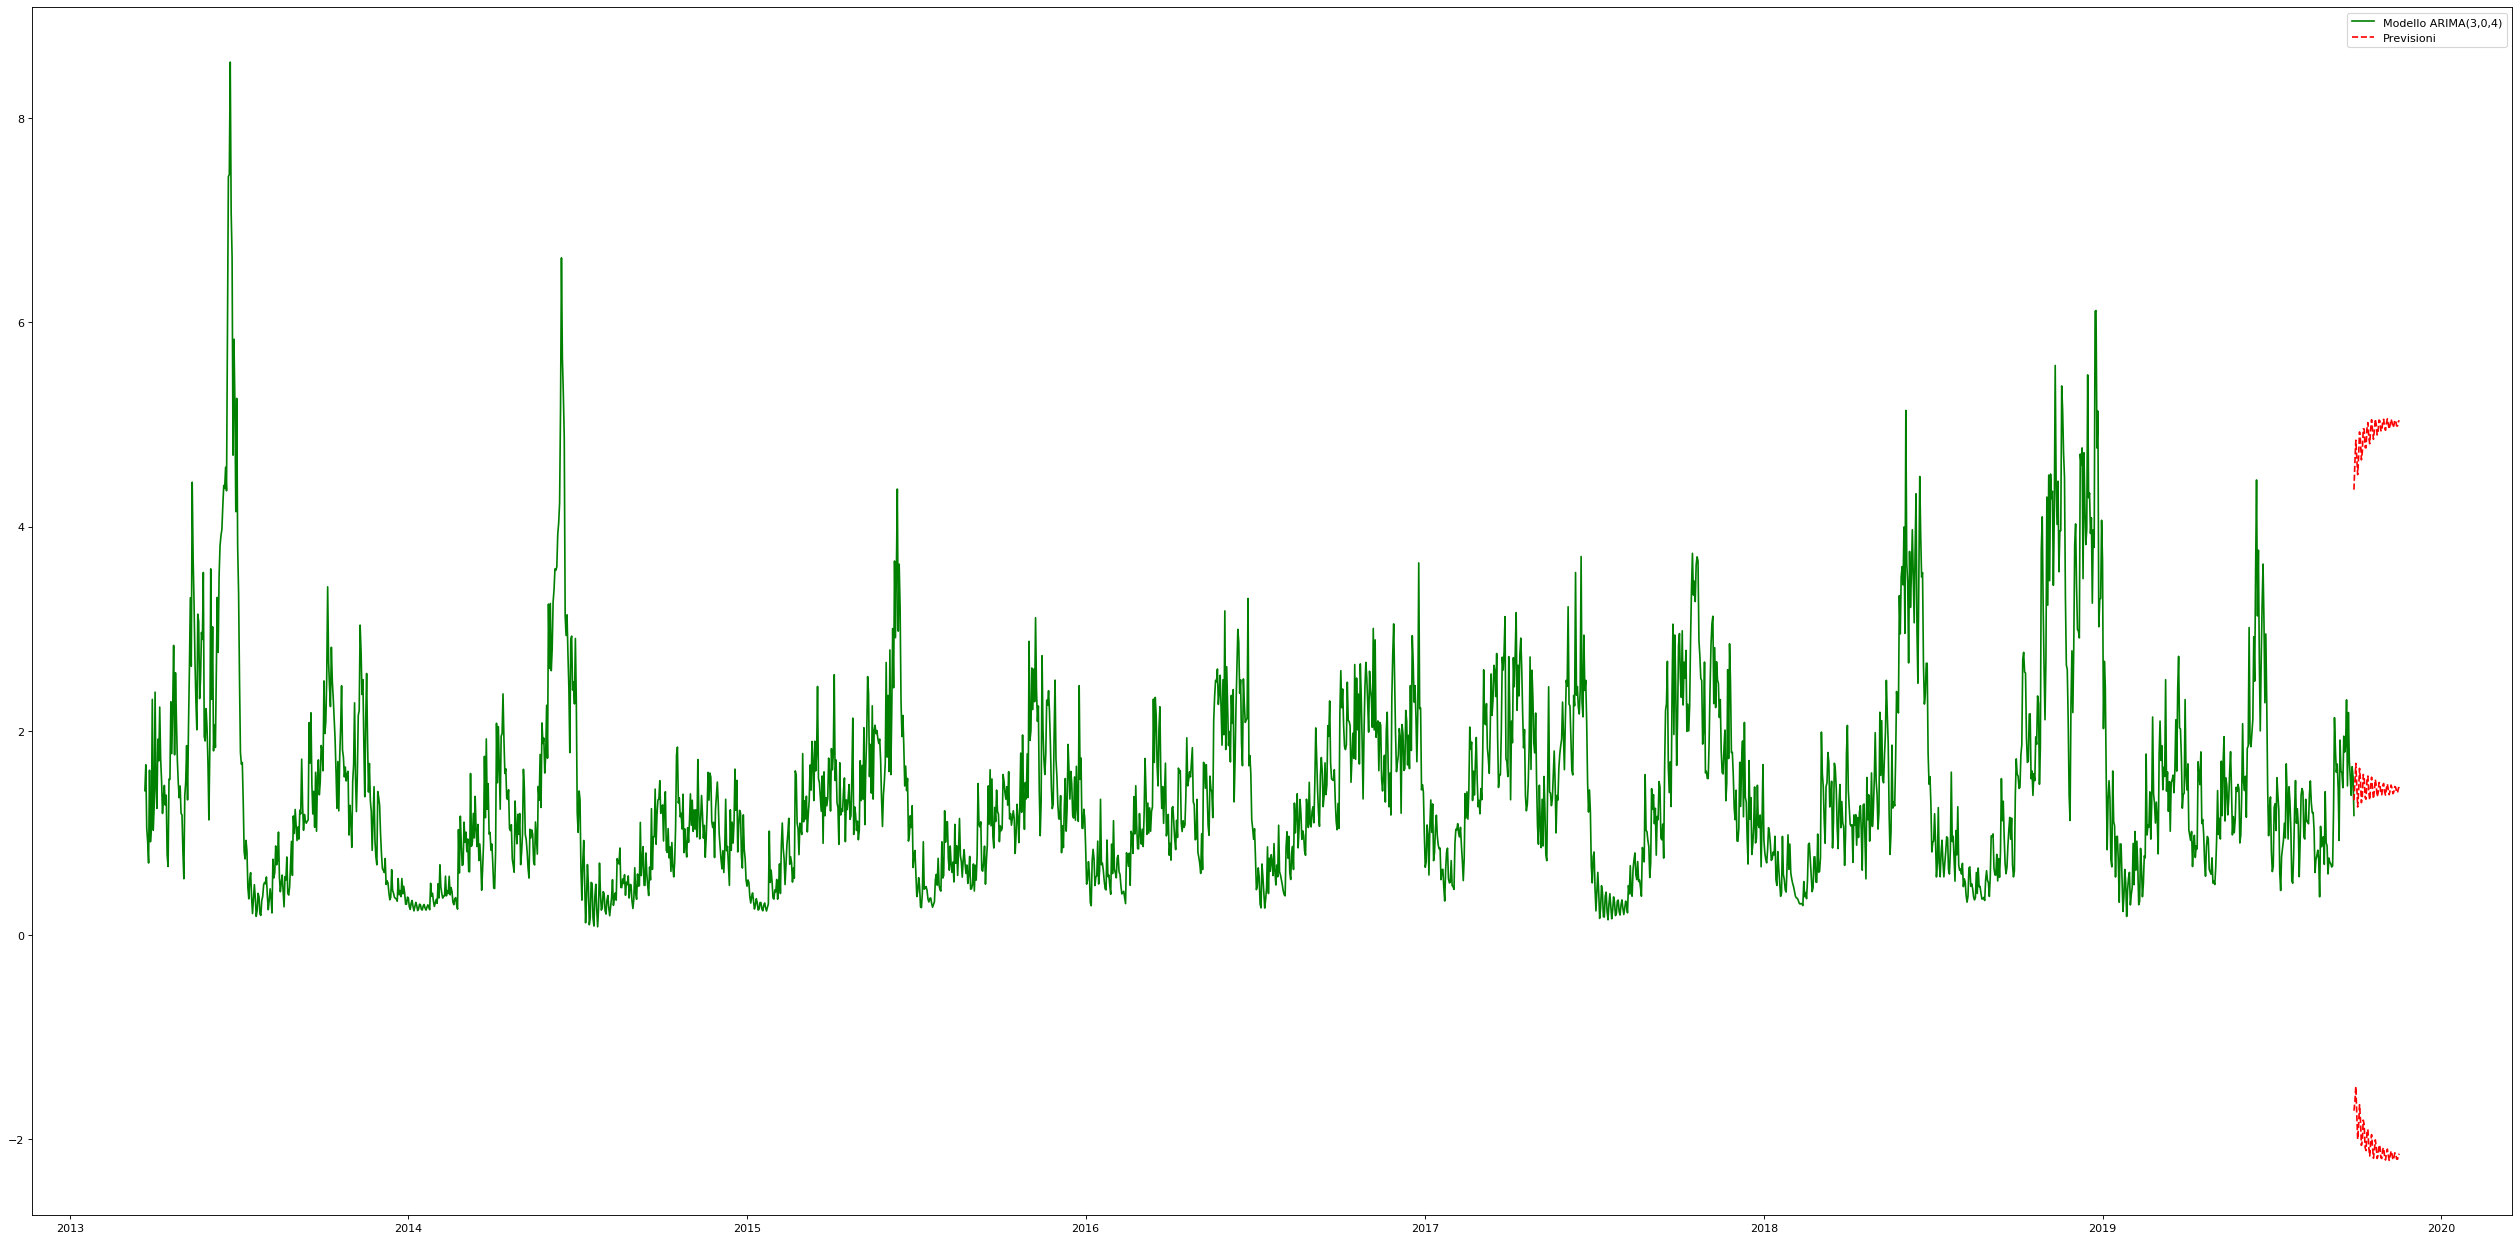
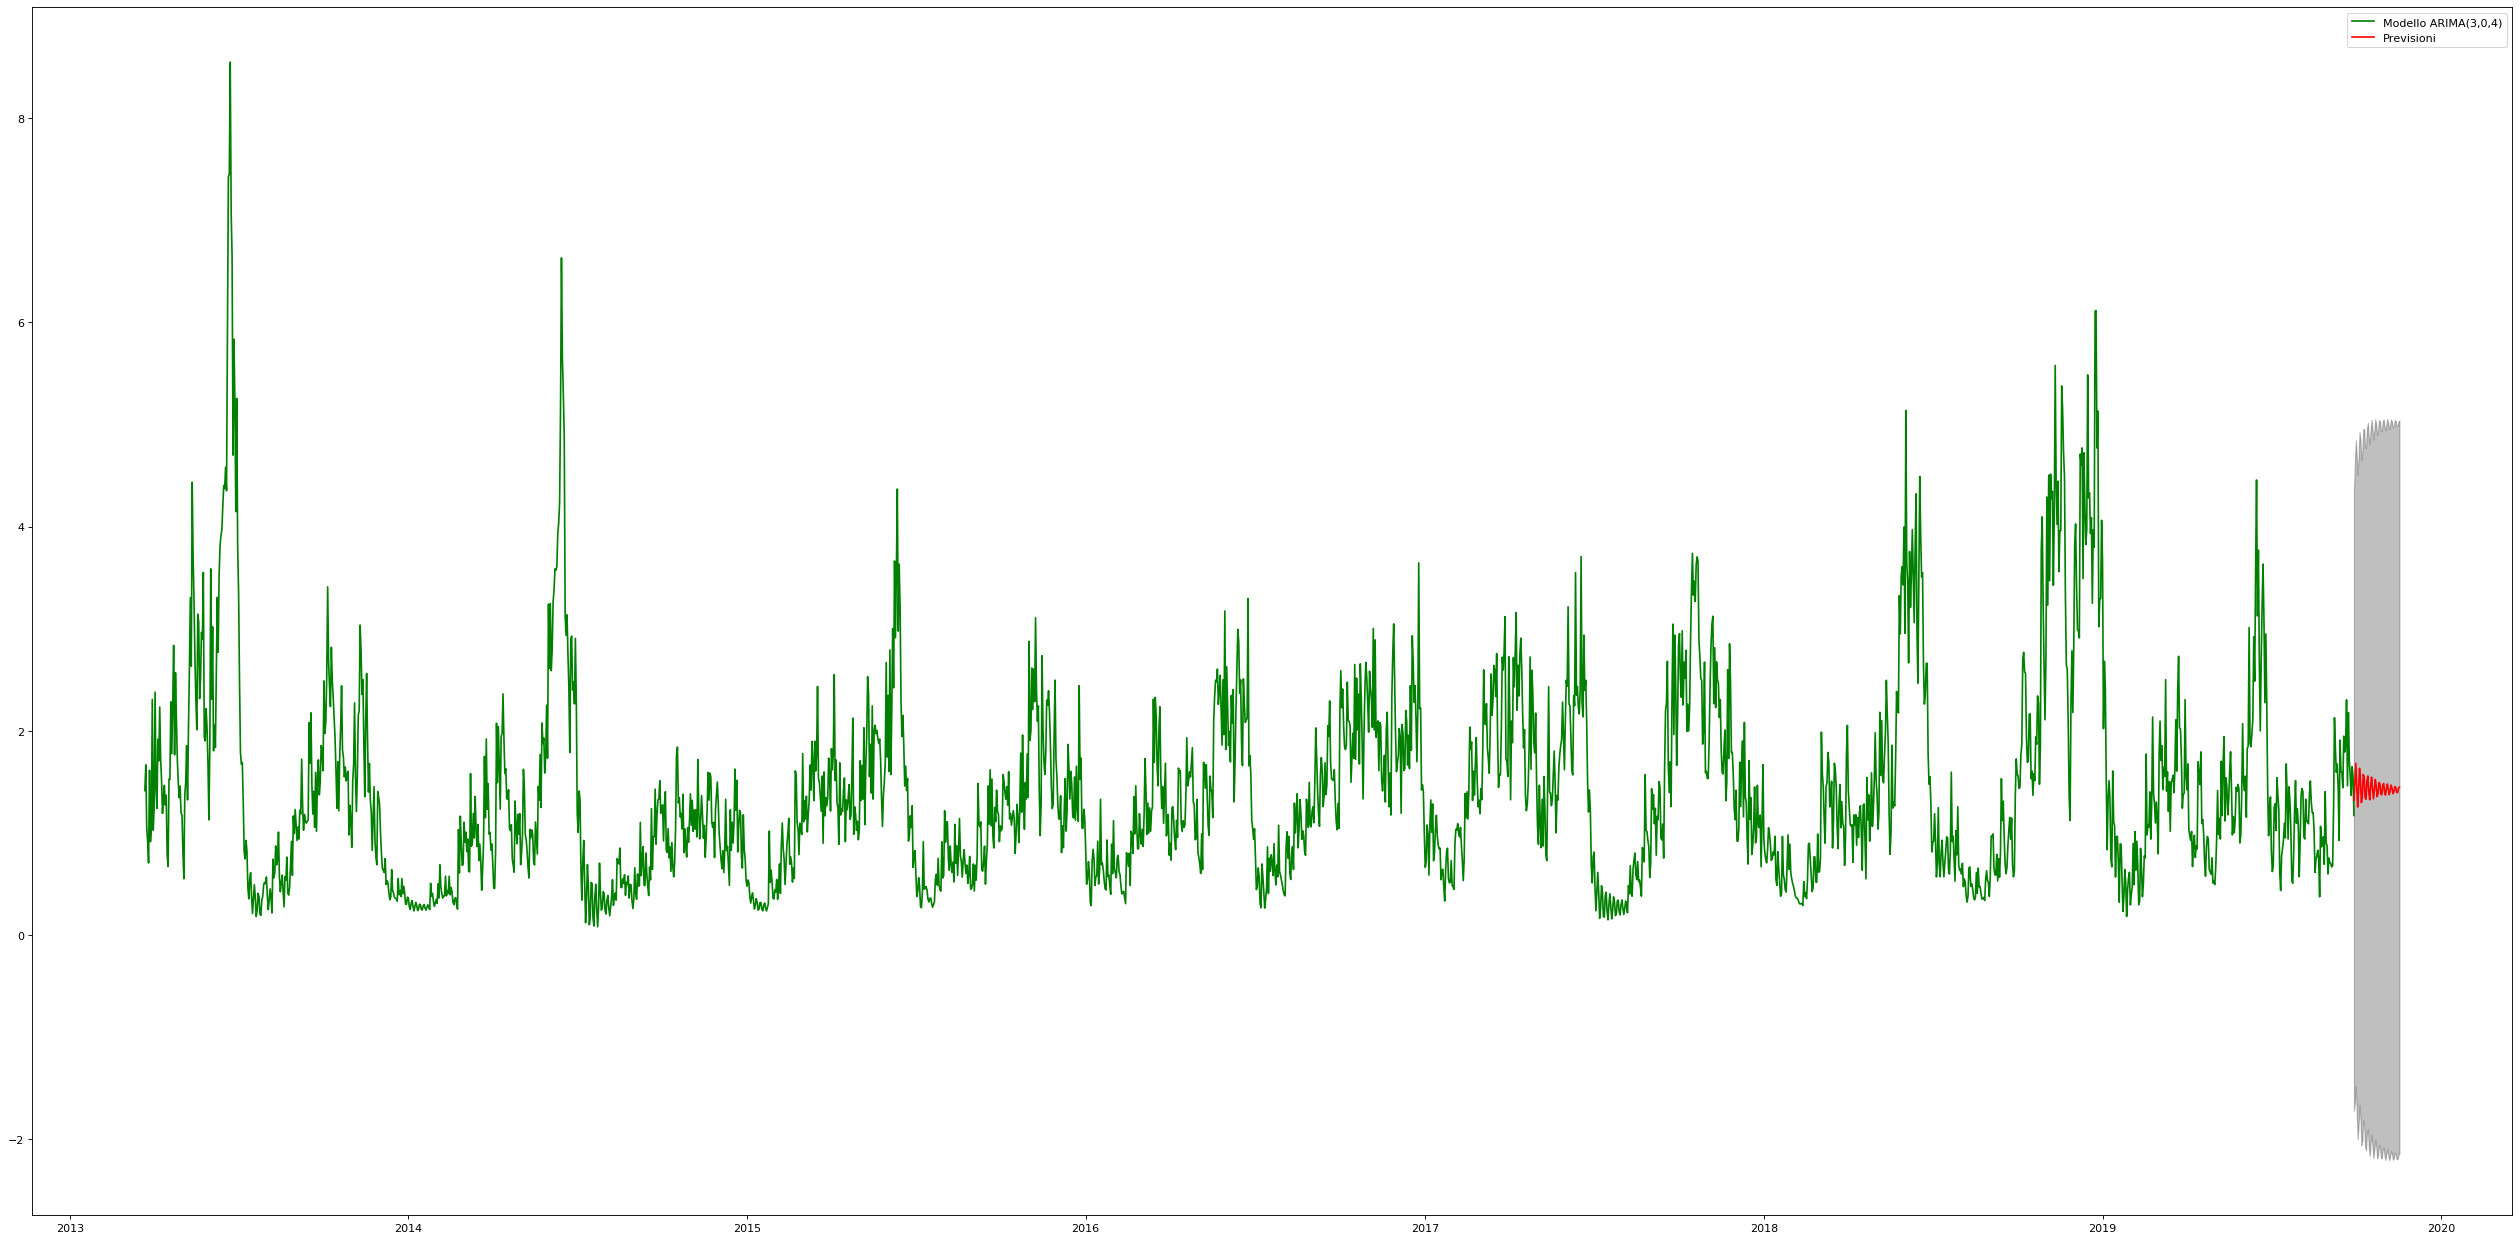
aggiunte

Changed region(s): [[0.9286, 0.3368, 0.9595, 0.9492]]

diff --git a/script_michele.py b/script_michele.py
@@ -103,7 +103,7 @@ def test_stationarity(ts):
         dfoutput['Critical Value (%s)' % key] = value
     print(dfoutput);print('\n')
     
-    return dftest[0] < dftest[4]['1%']
+    return dftest[0] < dftest[4]['10%']     # Abbiamo il 90% che la serie sia stazionaria
 
 def p_QForArima(ts_diff, T, lags=40):
     '''
@@ -208,23 +208,21 @@ def strength_seasonal_trend(ts):
     return (strength_seasonal, strength_trend)
 
 if __name__ == "__main__":
-        #Whole period.csv
-        dateparser = lambda dates: datetime.datetime.strptime(dates, '%Y-%m-%d')
-        dataframe = pd.read_csv('Dati_Albignasego/Whole period.csv',index_col = 0, date_parser=dateparser)
+    
+    dateparser = lambda dates: datetime.datetime.strptime(dates, '%Y-%m-%d')
+    dataframe = pd.read_csv('Dati_Albignasego/Whole period.csv', index_col = 0, date_parser=dateparser)
     
     # Analizziamo i dati graficamente
-    #for column in dataframe:
-        column = 'MAGLIE'
-        timeplot(ts=dataframe[column], label=column)
+    for column in dataframe:
         # Recuperiamo una serie temporale
-        serie = dataframe[column]
+        serie_totale = dataframe[column]
         
-        # Commento il training set dell'80% sui dati
-        '''
-        serie = serie[pd.date_range(start=dataframe.index[0], 
-                                        end=serie.index[int(len(serie) * 0.8)] , freq='D')]
-        '''
-       
+        # training set dell'80% sui dati
+        serie = serie_totale[pd.date_range(start=dataframe.index[0], 
+                                        end=serie_totale.index[int(len(serie_totale) * 0.8)] , freq='D')]
+        # Plottiamo la serie temporale
+        timeplot(ts=serie, label=column)
+        
         # Cerchiamo di capire se la serie è stagionale e/o presenta trend dalla funzione acf
         plotAcf(serie, both=True)
         
@@ -267,7 +265,6 @@ if __name__ == "__main__":
         
         # Individuiamo il miglior modello ARIMA che approssima meglio la serie temporale
         best_p, best_q, best_result_model = find_best_model(serie, d=int(not isStationary))
-        #best_p, best_q, best_result_model = (4,4,ARIMA(serie, order=(4, 0, 4)).fit(disp=-1))
         
         # Mettiamo in confronto i due modelli
         plt.figure(figsize=(40, 20), dpi=80)
@@ -293,15 +290,21 @@ if __name__ == "__main__":
         plt.figure(figsize=(40, 20), dpi=80)
         plt.plot(best_arima_model, color="green", label='Modello ARIMA(' + str(best_p) + ',0,' + str(best_q) +')')
         plt.plot(pd.date_range(start=serie.index[len(serie) - 1], periods=h , freq='D'), 
-                 previsione, linestyle='-',color='red', label='Previsioni')
-        #plt.plot(pd.date_range(start=serie.index[len(serie) - 1], periods=h , freq='D'), intervallo, linestyle='-', color='red')
+                 previsione, linestyle='-',color='red', label='Previsioni', alpha=.75)
+
+        plt.plot(serie_totale[pd.date_range(
+            start=serie_totale.index[int(len(serie_totale) * 0.8)], 
+            periods=h , freq='D')], linestyle='-', 
+            color='black', label='Osservazioni reali', markersize=7)
+        
         intervallo_sup = [0.0] * len(intervallo)
         intervallo_inf = [0.0] * len(intervallo)
+        
+        # Normalizzo gli array
         ind = 0
         for n in intervallo[:, [0]]:
             intervallo_sup[ind] = float(n)
             ind+=1
-        
         ind = 0
         for n in intervallo[:, [1]]:
             intervallo_inf[ind] = float(n)
@@ -310,6 +313,6 @@ if __name__ == "__main__":
         plt.fill_between(pd.date_range(start=serie.index[len(serie) - 1], periods=h , freq='D'), 
                          intervallo_sup, 
                          intervallo_inf, 
-                         color='k', alpha=.25)
+                         color='black', alpha=.25)
         plt.legend(loc='best');
         plt.show()
